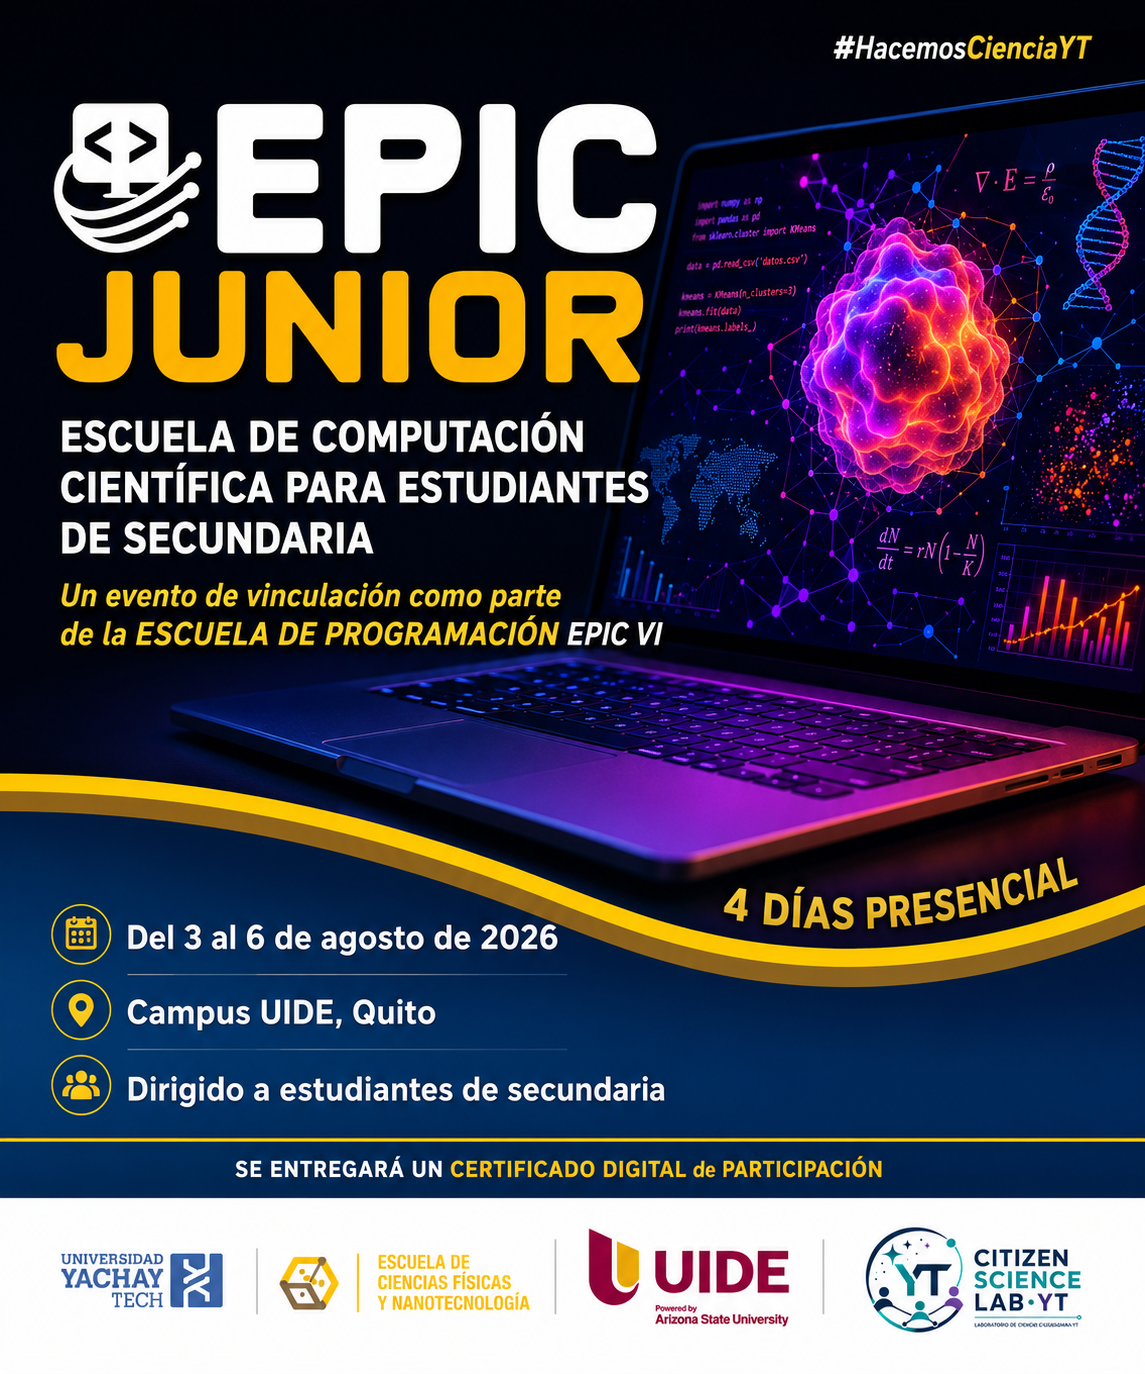
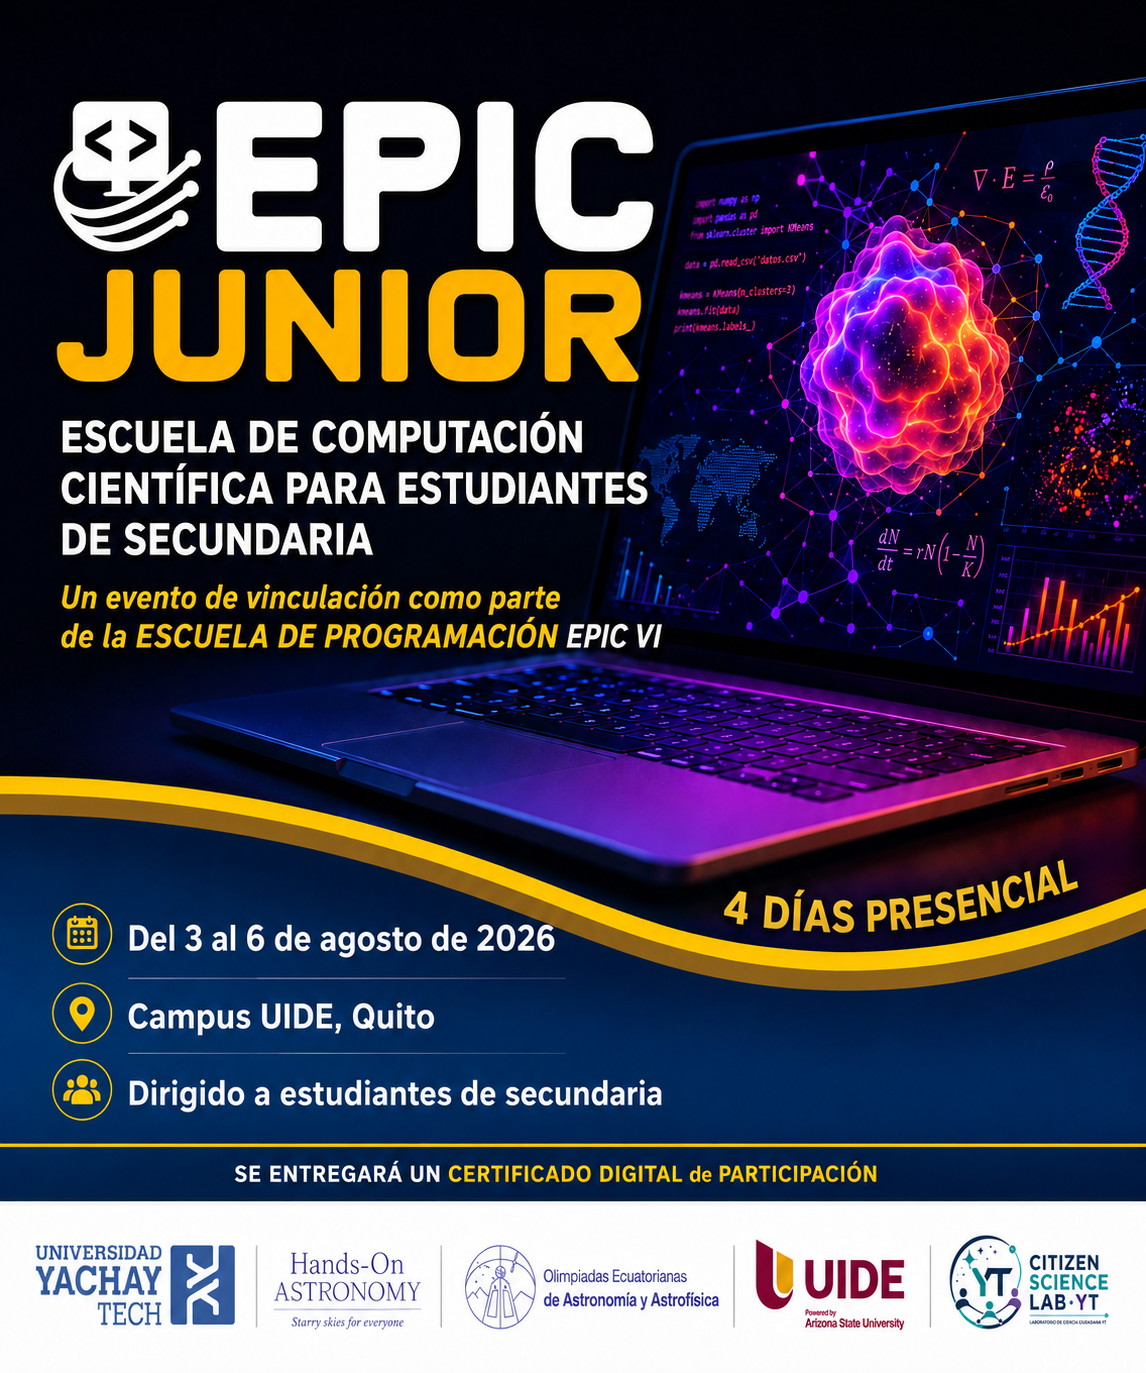
update

diff --git a/EPIC_JR.html b/EPIC_JR.html
@@ -563,6 +563,8 @@ a { color: var(--jr-blue); }
             Los detalles logísticos se publicarán más adelante.
           </p>
 
+          <img src="images/uide_01.jpg" alt="Instalaciones del campus UIDE, Quito" class="venue-img">
+
         </div>
 
       </div>
@@ -791,6 +793,14 @@ a { color: var(--jr-blue); }
         <strong>todo el día</strong> — según tu disponibilidad.
       </p>
 
+      <p class="shift-note">
+        <i class="fa fa-coffee"></i>
+        <strong>Los coffee breaks están cubiertos por la organización.</strong>
+        El <strong>almuerzo no está cubierto</strong>: cada participante puede traer
+        su propio almuerzo o comprarlo en las cafeterías y restaurantes cercanos al
+        campus.
+      </p>
+
       <div class="table-responsive">
         <table class="schedule-table">
           <thead>
@@ -819,7 +829,7 @@ a { color: var(--jr-blue); }
             </tr>
             <tr class="break-row">
               <td>10h30 – 11h00</td>
-              <td colspan="4">Receso &amp; Coffee Break</td>
+              <td colspan="4">Receso &amp; Coffee Break (cubierto por la organización)</td>
             </tr>
             <tr>
               <td>11h00 – 13h00</td>
@@ -830,7 +840,7 @@ a { color: var(--jr-blue); }
             </tr>
             <tr class="break-row">
               <td>13h00 – 14h30</td>
-              <td colspan="4">Almuerzo (UIDE / traer almuerzo)</td>
+              <td colspan="4">Almuerzo (no cubierto)</td>
             </tr>
             <tr class="shift-row shift-afternoon">
               <td colspan="5">Jornada Vespertina</td>
@@ -845,6 +855,14 @@ a { color: var(--jr-blue); }
           </tbody>
         </table>
       </div>
+
+      <p class="text-center" style="margin-top: 20px;">
+        <a href="images/Programa_EPIC_Junior_II.pdf"
+           target="_blank"
+           class="btn btn-primary btn-lg register-btn">
+          <i class="fa fa-file-pdf-o"></i> Descargar Programa (PDF)
+        </a>
+      </p>
 
     </div>
 
